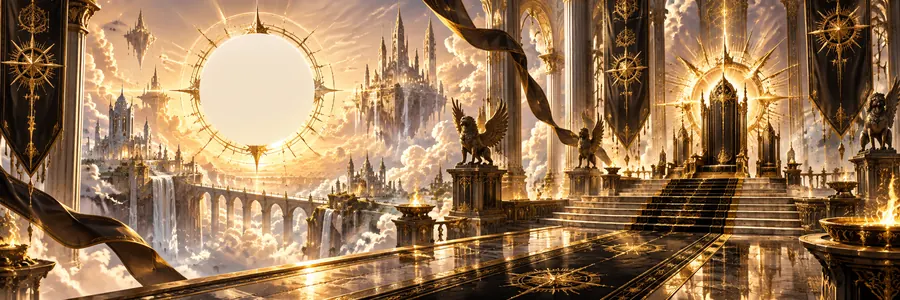
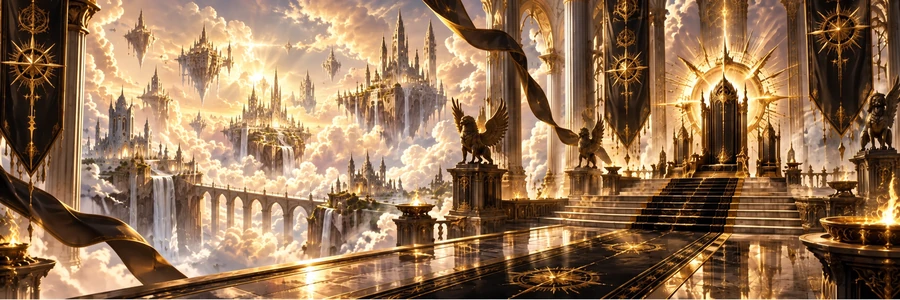
更新十张完整场景背景

diff --git a/index.html b/index.html
@@ -1465,6 +1465,8 @@ function pct(rate) {
 
 /* 商品目錄預設值：由伺服器 functions/core/catalog.js 產生。後台的修改會從 config/catalog 蓋上來 */
 var DEFAULT_ITEMS = [{"id":"av_f01","type":"avatar","sub":"female","tier":1,"name":"翠影書記","price":120,"onSale":true,"img":"assets/av/f01.webp"},{"id":"av_f02","type":"avatar","sub":"female","tier":1,"name":"夜藍蝶結","price":120,"onSale":true,"img":"assets/av/f02.webp"},{"id":"av_f03","type":"avatar","sub":"female","tier":1,"name":"碧潮少女","price":120,"onSale":true,"img":"assets/av/f03.webp"},{"id":"av_f04","type":"avatar","sub":"female","tier":1,"name":"緋月魔女","price":120,"onSale":true,"img":"assets/av/f04.webp"},{"id":"av_f05","type":"avatar","sub":"female","tier":1,"name":"銀羽紫瞳","price":120,"onSale":true,"img":"assets/av/f05.webp"},{"id":"av_f06","type":"avatar","sub":"female","tier":1,"name":"櫻粉惡魔","price":120,"onSale":true,"img":"assets/av/f06.webp"},{"id":"av_f07","type":"avatar","sub":"female","tier":1,"name":"赤焰千金","price":120,"onSale":true,"img":"assets/av/f07.webp"},{"id":"av_f08","type":"avatar","sub":"female","tier":1,"name":"紫夜吟遊","price":120,"onSale":true,"img":"assets/av/f08.webp"},{"id":"av_f09","type":"avatar","sub":"female","tier":1,"name":"金輝學姊","price":120,"onSale":true,"img":"assets/av/f09.webp"},{"id":"av_f10","type":"avatar","sub":"female","tier":1,"name":"月光白雪","price":120,"onSale":true,"img":"assets/av/f10.webp"},{"id":"av_m01","type":"avatar","sub":"male","tier":1,"name":"白髮緋瞳","price":120,"onSale":true,"img":"assets/av/m01.webp"},{"id":"av_m02","type":"avatar","sub":"male","tier":1,"name":"赤髮狂狼","price":120,"onSale":true,"img":"assets/av/m02.webp"},{"id":"av_m03","type":"avatar","sub":"male","tier":1,"name":"藍夜寡言","price":120,"onSale":true,"img":"assets/av/m03.webp"},{"id":"av_m04","type":"avatar","sub":"male","tier":1,"name":"翡翠騎士","price":120,"onSale":true,"img":"assets/av/m04.webp"},{"id":"av_m05","type":"avatar","sub":"male","tier":1,"name":"紫魅學長","price":120,"onSale":true,"img":"assets/av/m05.webp"},{"id":"av_m06","type":"avatar","sub":"male","tier":1,"name":"金獅貴公子","price":120,"onSale":true,"img":"assets/av/m06.webp"},{"id":"av_m07","type":"avatar","sub":"male","tier":1,"name":"銀月劍士","price":120,"onSale":true,"img":"assets/av/m07.webp"},{"id":"av_m08","type":"avatar","sub":"male","tier":1,"name":"雙色惡魔","price":120,"onSale":true,"img":"assets/av/m08.webp"},{"id":"av_m09","type":"avatar","sub":"male","tier":1,"name":"黑夜低語","price":120,"onSale":true,"img":"assets/av/m09.webp"},{"id":"av_m10","type":"avatar","sub":"male","tier":1,"name":"碧影刺客","price":120,"onSale":true,"img":"assets/av/m10.webp"},{"id":"av_e01","type":"avatar","sub":"meme","tier":1,"name":"就很爽","price":10,"onSale":true,"img":"assets/av/e01.webp"},{"id":"av_e02","type":"avatar","sub":"meme","tier":1,"name":"嫌棄臉","price":10,"onSale":true,"img":"assets/av/e02.webp"},{"id":"av_e03","type":"avatar","sub":"meme","tier":1,"name":"你很棒","price":10,"onSale":true,"img":"assets/av/e03.webp"},{"id":"av_e04","type":"avatar","sub":"meme","tier":1,"name":"墨鏡大佬","price":10,"onSale":true,"img":"assets/av/e04.webp"},{"id":"av_e05","type":"avatar","sub":"meme","tier":1,"name":"側眼瞄","price":10,"onSale":true,"img":"assets/av/e05.webp"},{"id":"av_e06","type":"avatar","sub":"meme","tier":1,"name":"仰望天空","price":10,"onSale":true,"img":"assets/av/e06.webp"},{"id":"av_e07","type":"avatar","sub":"meme","tier":1,"name":"已躺平","price":10,"onSale":true,"img":"assets/av/e07.webp"},{"id":"av_e08","type":"avatar","sub":"meme","tier":1,"name":"金鍊奶茶哥","price":10,"onSale":true,"img":"assets/av/e08.webp"},{"id":"av_e09","type":"avatar","sub":"meme","tier":1,"name":"奶茶大","price":10,"onSale":true,"img":"assets/av/e09.webp"},{"id":"av_e10","type":"avatar","sub":"meme","tier":1,"name":"人生就是爽","price":10,"onSale":true,"img":"assets/av/e10.webp"},{"id":"av_u01","type":"avatar","sub":"ur","tier":2,"name":"深淵藍焰守護者","price":500,"onSale":false,"img":"assets/av/u01.webp"},{"id":"av_u02","type":"avatar","sub":"ur","tier":2,"name":"銀翼機甲王牌","price":500,"onSale":false,"img":"assets/av/u02.webp"},{"id":"av_u03","type":"avatar","sub":"ur","tier":2,"name":"太陽女帝","price":500,"onSale":false,"img":"assets/av/u03.webp"},{"id":"av_u04","type":"avatar","sub":"ur","tier":2,"name":"月下紫晶女王","price":500,"onSale":false,"img":"assets/av/u04.webp"},{"id":"av_u05","type":"avatar","sub":"ur","tier":2,"name":"赤焰鬼角","price":500,"onSale":false,"img":"assets/av/u05.webp"},{"id":"av_x01","type":"avatar","sub":"god","tier":4,"name":"終焉神域","price":null,"onSale":false,"img":"assets/av/x01.webp"},{"id":"bg_01","type":"bg","tier":1,"name":"極光冰城","price":450,"onSale":true,"img":"assets/bg/g01.webp"},{"id":"bg_02","type":"bg","tier":1,"name":"聖環殘殿","price":450,"onSale":true,"img":"assets/bg/g02.webp"},{"id":"bg_03","type":"bg","tier":1,"name":"鎏金天庭","price":450,"onSale":true,"img":"assets/bg/g03.webp"},{"id":"bg_04","type":"bg","tier":1,"name":"月下神社","price":450,"onSale":true,"img":"assets/bg/g04.webp"},{"id":"bg_05","type":"bg","tier":1,"name":"深淵聖殿","price":450,"onSale":true,"img":"assets/bg/g05.webp"},{"id":"bg_06","type":"bg","tier":1,"name":"星環遺跡","price":450,"onSale":true,"img":"assets/bg/g06.webp"},{"id":"bg_07","type":"bg","tier":1,"name":"黑洞幻境","price":450,"onSale":true,"img":"assets/bg/g07.webp"},{"id":"bg_08","type":"bg","tier":1,"name":"紫晶王國","price":450,"onSale":true,"img":"assets/bg/g08.webp"},{"id":"bg_09","type":"bg","tier":1,"name":"血月魔環","price":450,"onSale":true,"img":"assets/bg/g09.webp"},{"id":"bg_10","type":"bg","tier":1,"name":"機甲遺城","price":450,"onSale":true,"img":"assets/bg/g10.webp"},{"id":"bk_01","type":"back","tier":3,"name":"白羽神性","price":null,"onSale":false,"img":"assets/back/b01.webp"},{"id":"bk_02","type":"back","tier":3,"name":"赤月終焉","price":null,"onSale":false,"img":"assets/back/b02.webp"},{"id":"bk_03","type":"back","tier":3,"name":"深海幻夢","price":null,"onSale":false,"img":"assets/back/b03.webp"},{"id":"bk_04","type":"back","tier":3,"name":"神之救贖","price":null,"onSale":false,"img":"assets/back/b04.webp"},{"id":"bk_05","type":"back","tier":3,"name":"狂亂終局","price":null,"onSale":false,"img":"assets/back/b05.webp"},{"id":"bk_06","type":"back","tier":3,"name":"虛無無限","price":null,"onSale":false,"img":"assets/back/b06.webp"},{"id":"em_taunt","type":"emote","name":"嘲諷包","price":30,"onSale":true,"list":["就這？","謝謝老闆","你在怕","穩了"]},{"id":"em_drama","type":"emote","name":"戲劇包","price":30,"onSale":true,"list":["我的天","心臟不好","這也能跟？","再來一把"]},{"id":"card_rename","type":"card","sub":"rename","name":"星輝改名卡","price":30,"onSale":true,"img":"assets/item/c01.webp","desc":"改一次名字"},{"id":"card_seat","type":"card","sub":"seat","name":"星界換座位卡","price":10,"onSale":true,"img":"assets/item/c02.webp","desc":"兩手之間跟桌上任何人換位子，對方有卡的話會被擋下"},{"id":"card_vanity","type":"card","sub":"vanity","name":"全新身份卡","price":100,"onSale":true,"img":"assets/item/c05.webp","desc":"設定 1 到 7 位數的靚號，顯示在牌桌、排行榜和個人頁"},{"id":"card_wild","type":"card","sub":"wild","name":"萬象隨心","price":null,"onSale":false,"img":"assets/item/c04.webp","desc":"功能尚未開放"},{"id":"key_1","type":"key","rarity":1,"name":"稀有鑰匙・冰霜星輝","price":5,"onSale":true,"img":"assets/item/k01.webp"},{"id":"chest_1","type":"chest","rarity":1,"name":"稀有寶箱・秘境藍晶","price":null,"onSale":false,"img":"assets/item/ch01.webp","loot":{"stars":{"min":3,"max":5},"items":[{"itemId":"bankruptcy_protection","min":1,"max":1,"p":1},{"itemId":"forced_duel","min":1,"max":1,"p":0.2},{"itemId":"forced_action","min":1,"max":2,"p":1},{"itemId":"premium_dry_shampoo","min":1,"max":1,"p":1},{"itemId":"iron_bowl","min":1,"max":1,"p":0.2},{"itemId":"broken_bowl","min":1,"max":3,"p":1}],"avatar":0,"ur":0,"bg":0,"dex":0,"dexFullStars":30}},{"id":"key_2","type":"key","rarity":2,"name":"極稀有鑰匙・星穹王座","price":10,"onSale":true,"img":"assets/item/k07.webp"},{"id":"chest_2","type":"chest","rarity":2,"name":"極稀有寶箱・霜晶王座","price":null,"onSale":false,"img":"assets/item/ch05.webp","loot":{"stars":{"min":5,"max":7},"items":[{"itemId":"bankruptcy_protection","min":1,"max":2,"p":1},{"itemId":"forced_duel","min":1,"max":1,"p":0.5},{"itemId":"forced_action","min":3,"max":3,"p":1},{"itemId":"premium_dry_shampoo","min":2,"max":2,"p":1},{"itemId":"iron_bowl","min":1,"max":1,"p":0.5},{"itemId":"broken_bowl","min":3,"max":6,"p":1}],"avatar":0.02,"ur":0,"bg":0.005,"dex":0,"dexFullStars":30}},{"id":"key_3","type":"key","rarity":3,"name":"史詩鑰匙・月影紫晶","price":20,"onSale":true,"img":"assets/item/k02.webp"},{"id":"chest_3","type":"chest","rarity":3,"name":"史詩寶箱・月影紫晶","price":null,"onSale":false,"img":"assets/item/ch02.webp","loot":{"stars":{"min":7,"max":10},"items":[{"itemId":"bankruptcy_protection","min":3,"max":3,"p":1},{"itemId":"forced_duel","min":1,"max":2,"p":1},{"itemId":"forced_action","min":3,"max":3,"p":1},{"itemId":"premium_dry_shampoo","min":2,"max":2,"p":1},{"itemId":"iron_bowl","min":2,"max":2,"p":1},{"itemId":"broken_bowl","min":3,"max":6,"p":1}],"avatar":0.03,"ur":0,"bg":0.01,"dex":0.2,"dexFullStars":30}},{"id":"key_4","type":"key","rarity":4,"name":"神話鑰匙・血月煉獄","price":35,"onSale":true,"img":"assets/item/k03.webp"},{"id":"chest_4","type":"chest","rarity":4,"name":"神話寶箱・血月惡魔","price":null,"onSale":false,"img":"assets/item/ch03.webp","loot":{"stars":{"min":10,"max":20},"items":[{"itemId":"bankruptcy_protection","min":5,"max":5,"p":1},{"itemId":"forced_duel","min":3,"max":3,"p":1},{"itemId":"forced_action","min":3,"max":3,"p":1},{"itemId":"premium_dry_shampoo","min":3,"max":3,"p":1},{"itemId":"iron_bowl","min":3,"max":3,"p":1},{"itemId":"broken_bowl","min":3,"max":6,"p":1}],"avatar":0.1,"ur":0,"bg":0.035,"dex":0.35,"dexFullStars":30}},{"id":"key_5","type":"key","rarity":5,"name":"傳奇鑰匙・天界神聖","price":50,"onSale":true,"img":"assets/item/k04.webp"},{"id":"chest_5","type":"chest","rarity":5,"name":"傳奇寶箱・天界璀璨","price":null,"onSale":false,"img":"assets/item/ch04.webp","loot":{"stars":{"min":20,"max":25},"items":[{"itemId":"bankruptcy_protection","min":5,"max":5,"p":1},{"itemId":"forced_duel","min":5,"max":5,"p":1},{"itemId":"forced_action","min":3,"max":3,"p":1},{"itemId":"premium_dry_shampoo","min":3,"max":3,"p":1},{"itemId":"iron_bowl","min":3,"max":3,"p":1},{"itemId":"broken_bowl","min":3,"max":6,"p":1}],"avatar":0.2,"ur":0.05,"bg":0.075,"dex":0.6,"dexFullStars":30}},{"id":"key_6","type":"key","rarity":6,"name":"神秘鑰匙・熔火龍王","price":null,"onSale":false,"img":"assets/item/k05.webp"},{"id":"chest_6","type":"chest","rarity":6,"name":"神秘寶箱・熔岩龍焰","price":null,"onSale":false,"img":"assets/item/ch07.webp","loot":{"stars":{"min":25,"max":50},"items":[{"itemId":"bankruptcy_protection","min":5,"max":5,"p":1},{"itemId":"forced_duel","min":5,"max":5,"p":1},{"itemId":"forced_action","min":3,"max":3,"p":1},{"itemId":"premium_dry_shampoo","min":3,"max":3,"p":1},{"itemId":"iron_bowl","min":3,"max":3,"p":1},{"itemId":"broken_bowl","min":3,"max":6,"p":1}],"avatar":0.3,"ur":0.1,"bg":0.1,"dex":0.75,"dexFullStars":30}},{"id":"key_7","type":"key","rarity":7,"name":"管理員鑰匙・宇宙星辰","price":null,"onSale":false,"img":"assets/item/k06.webp"},{"id":"chest_7","type":"chest","rarity":7,"name":"管理員寶箱・星界深淵","price":null,"onSale":false,"img":"assets/item/ch06.webp","loot":{"stars":{"min":150,"max":150},"items":[{"itemId":"bankruptcy_protection","min":10,"max":10,"p":1},{"itemId":"forced_duel","min":10,"max":10,"p":1},{"itemId":"forced_action","min":10,"max":10,"p":1},{"itemId":"premium_dry_shampoo","min":10,"max":10,"p":1},{"itemId":"iron_bowl","min":10,"max":10,"p":1},{"itemId":"broken_bowl","min":50,"max":50,"p":1}],"avatar":1,"ur":1,"bg":1,"dex":1,"dexFullStars":30}},{"id":"bankruptcy_protection","type":"card","sub":"revive","tier":3,"name":"破產防護卷","price":null,"onSale":false,"img":"assets/item/revive.webp","desc":"總資產低於 1000 時使用，錢包直接回到 5000。持有期間不能跟銀行借款。"},{"id":"forced_duel","type":"card","sub":"duel","tier":5,"name":"強制幹錢券","price":null,"onSale":false,"img":"assets/item/duel.webp","desc":"對同桌玩家發動抽卡對決，雙方各抽一張比大小，贏的拿 1000、輸的拿 200。"},{"id":"forced_action","type":"card","sub":"forcebet","tier":2,"name":"強制下注卷","price":null,"onSale":false,"img":"assets/item/forcebet.webp","desc":"指定同桌玩家下一回合必須跟到你的下注額（上限 500），錢不夠就 all-in。"},{"id":"premium_dry_shampoo","type":"card","sub":"shampoo","tier":2,"name":"頂級的乾洗髮","price":null,"onSale":false,"img":"assets/item/shampoo.webp","desc":"選一個還沒永久擁有的普通頭像，暫時解鎖 24 小時，到期自動換回原本的頭像。"},{"id":"iron_bowl","type":"card","sub":"guard","tier":4,"name":"保硬的鐵碗公","price":null,"onSale":false,"img":"assets/item/guard.webp","desc":"被干擾型道具指定時可以選擇擋下來，一次消耗一個。"},{"id":"broken_bowl","type":"card","sub":"shard","tier":1,"name":"破損的陶碗","price":null,"onSale":false,"img":"assets/item/shard.webp","desc":"合成碎片，湊滿 2 個會自動合成 1 個保硬的鐵碗公。"},{"id":"dex_01","type":"dex","sub":"doodle","name":"缺角的聖杯","price":null,"onSale":false,"img":"assets/dex/d01.png","desc":"塗鴉秘寶館收藏"},{"id":"dex_02","type":"dex","sub":"doodle","name":"看不懂的真跡","price":null,"onSale":false,"img":"assets/dex/d02.png","desc":"塗鴉秘寶館收藏"},{"id":"dex_03","type":"dex","sub":"doodle","name":"成精的高麗菜","price":null,"onSale":false,"img":"assets/dex/d03.png","desc":"塗鴉秘寶館收藏"},{"id":"dex_04","type":"dex","sub":"doodle","name":"奏樂令旗","price":null,"onSale":false,"img":"assets/dex/d04.png","desc":"塗鴉秘寶館收藏"},{"id":"dex_05","type":"dex","sub":"doodle","name":"綠豆勇者","price":null,"onSale":false,"img":"assets/dex/d05.png","desc":"塗鴉秘寶館收藏"},{"id":"dex_06","type":"dex","sub":"doodle","name":"藏寶圖殘卷","price":null,"onSale":false,"img":"assets/dex/d06.png","desc":"塗鴉秘寶館收藏"},{"id":"dex_07","type":"dex","sub":"doodle","name":"見紅彎刀","price":null,"onSale":false,"img":"assets/dex/d07.png","desc":"塗鴉秘寶館收藏"},{"id":"dex_08","type":"dex","sub":"doodle","name":"藍焰爪刀","price":null,"onSale":false,"img":"assets/dex/d08.png","desc":"塗鴉秘寶館收藏"},{"id":"dex_09","type":"dex","sub":"doodle","name":"不會謝的玫瑰","price":null,"onSale":false,"img":"assets/dex/d09.png","desc":"塗鴉秘寶館收藏"},{"id":"dex_10","type":"dex","sub":"doodle","name":"班草的求愛花束","price":null,"onSale":false,"img":"assets/dex/d10.png","desc":"塗鴉秘寶館收藏"},{"id":"dex_11","type":"dex","sub":"doodle","name":"班花的情書","price":null,"onSale":false,"img":"assets/dex/d11.png","desc":"塗鴉秘寶館收藏"},{"id":"dex_12","type":"dex","sub":"doodle","name":"紅線纏柄刀","price":null,"onSale":false,"img":"assets/dex/d12.png","desc":"塗鴉秘寶館收藏"},{"id":"dex_13","type":"dex","sub":"doodle","name":"阿嬤的剁刀","price":null,"onSale":false,"img":"assets/dex/d13.png","desc":"塗鴉秘寶館收藏"}];
+/* 背景圖片內容更新時保留商品 ID，網址加版本號讓已擁有的人立刻刷新。 */
+DEFAULT_ITEMS.forEach(function (x) { if (x.type === 'bg' && x.img) x.img += '?v=16.1'; });
 /* 測試服前三名限定頭像：跟後端 catalog 同步，只能由管理員手動發放。 */
 DEFAULT_ITEMS.push(
   { id: 'av_test_1', type: 'avatar', sub: 'test_rank', tier: 1, name: '測試服第一名限定頭像', price: null, onSale: false, img: 'assets/av/test01.webp', desc: '測試服排行限定，只能由管理員手動發放。' },
